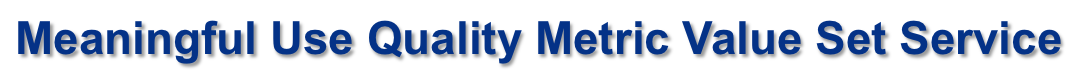
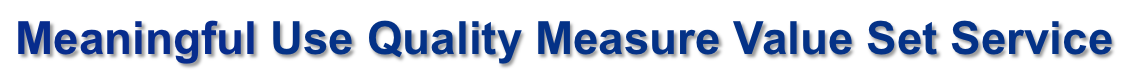
changed metric to measure.

Changed region(s): [[0.0, 0.2632, 1.0, 0.8947]]

diff --git a/cts2Viewer/src/edu/mayo/cts2Viewer/client/Cts2Panel.java b/cts2Viewer/src/edu/mayo/cts2Viewer/client/Cts2Panel.java
@@ -713,7 +713,7 @@ public class Cts2Panel extends VLayout {
 				@Override
 				public void onSuccess(String defaultServer) {
 					i_defaultServer = defaultServer;
-					String title = i_defaultServer.equals("MayoCTS2") ? "Meaningful Use Quality Metric CTS2 Value Sets"
+					String title = i_defaultServer.equals("MayoCTS2") ? "Meaningful Use Quality Measure CTS2 Value Sets"
 					        : i_defaultServer;
 					i_defaultServerTextItem.setValue("<b>" + title + "</b>");
 

diff --git a/cts2Viewer/src/edu/mayo/cts2Viewer/client/MasterHeader.java b/cts2Viewer/src/edu/mayo/cts2Viewer/client/MasterHeader.java
@@ -57,7 +57,7 @@ public class MasterHeader extends HLayout {
 			headerheight = 35;
 			titleImage = "headerTitleShort.png";
 		} else {
-			headerWidth = 541;
+			headerWidth = 569;
 			headerheight = 35;
 			titleImage = "headerTitleLong.png";
 		}
